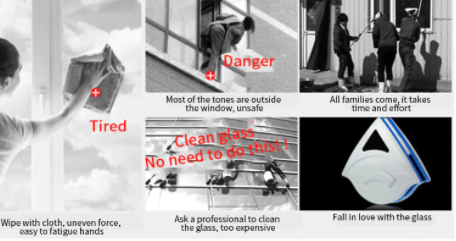
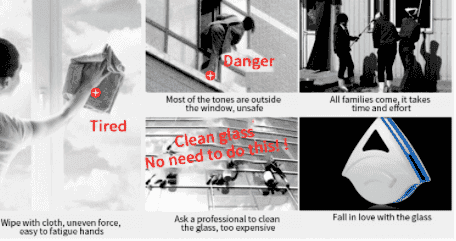
Add files via upload

diff --git a/machinebuiscuit.html b/machinebuiscuit.html
@@ -75,8 +75,8 @@
 				  </div>
 				  <div class="container-img"  id="select-form" >
 					<img src="./img/product/buiscuit7.jpg"  alt="Nature" data-value="image_value" id="img1" onclick="myFunction(this)">
-					<img src="./img/product/buiscuit2.jpeg"  alt="Nature" data-value="image_value1"  onclick="myFunction(this)">
-					<img src="./img/product/buiscuit3.jpeg"  alt="Nature" data-value="image_value2" onclick="myFunction(this)">
+					<img src="./img/product/buiscuit2.jpg"  alt="Nature" data-value="image_value1"  onclick="myFunction(this)">
+					<img src="./img/product/buiscuit3.jpg"  alt="Nature" data-value="image_value2" onclick="myFunction(this)">
 					<img src="./img/product/buiscuit9.jpg"  alt="Nature" data-value="image_value3" onclick="myFunction(this)">
                     <input type="hidden" id="image-value" name="selected_image" value="">
 				  </div>
@@ -188,7 +188,7 @@
                  <br><br> 
                  <img src="./img/product/buiscuit5.jpg"  class="img-fluid" alt="">
                  <br><br> 
-                 <img src="./img/product/buiscuit4.jpeg"  class="img-fluid" alt="">
+                 <img src="./img/product/buiscuit4.jpg"  class="img-fluid" alt="">
                  <br><br>
 			</div>
 

diff --git a/index.html b/index.html
@@ -337,7 +337,7 @@
               <div class="product">
                 <a href="machinebuiscuit.html">
                   <div class="product-img">
-                    <img src="img/product/buiscuit3.jpeg" class="img-fluid" alt="" />
+                    <img src="img/product/buiscuit3.jpg" class="img-fluid" alt="" />
                     <div class="product-overlay text-center">
                       <h6>إكتشف المزيد</h6>
                     </div>
